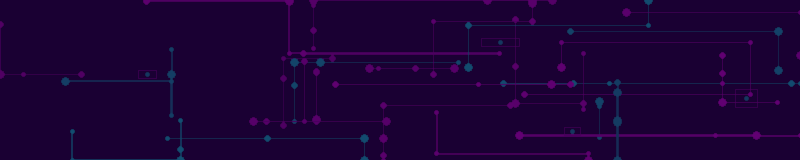
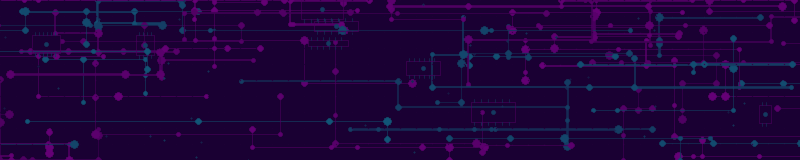
feat: denser circuit-trace toolbar pattern
More intricate PCB-style pattern: 55 traces (was 25), IC chip
outlines with pin marks, via dots, fine background grid texture.

Changed region(s): [[0.0, 0.0, 1.0, 1.0], [0.8438, 0.9375, 1.0, 1.0]]

diff --git a/scripts/generate_chrome_themes.py b/scripts/generate_chrome_themes.py
@@ -1037,43 +1037,66 @@ def generate_toolbar_image(v, width=800, height=160):
 
     trace_alpha = 50 if is_dark else 28
 
-    for i in range(25):
+    # Dense circuit routing — lots of traces
+    for i in range(55):
         color = accent if i % 3 != 0 else secondary
-        alpha = trace_alpha + random.randint(-8, 15)
-        line_color = color + (max(12, min(70, alpha)),)
+        alpha = trace_alpha + random.randint(-10, 18)
+        line_color = color + (max(12, min(75, alpha)),)
 
-        x = random.randint(0, width)
+        x = random.randint(-50, width + 50)
         y = random.randint(0, height)
 
-        segments = random.randint(2, 6)
+        segments = random.randint(3, 8)
         points = [(x, y)]
         for _ in range(segments):
-            if random.random() > 0.5:
-                dx = random.randint(30, 250) * random.choice([-1, 1])
-                points.append((max(0, min(width, points[-1][0] + dx)), points[-1][1]))
+            if random.random() > 0.4:
+                dx = random.randint(20, 180) * random.choice([-1, 1])
+                points.append((max(-20, min(width + 20, points[-1][0] + dx)), points[-1][1]))
             else:
-                dy = random.randint(10, 60) * random.choice([-1, 1])
+                dy = random.randint(8, 45) * random.choice([-1, 1])
                 points.append((points[-1][0], max(0, min(height, points[-1][1] + dy))))
 
-        lw = random.choice([1, 1, 2])
+        lw = random.choice([1, 1, 1, 2])
         for j in range(len(points) - 1):
             draw.line([points[j], points[j + 1]], fill=line_color, width=lw)
 
-        node_color = color + (max(18, min(80, alpha + 15)),)
+        # Nodes at every junction
+        node_color = color + (max(20, min(85, alpha + 18)),)
         for px, py in points:
-            r = random.choice([2, 3, 4])
+            r = random.choice([2, 2, 3, 3, 4])
             draw.ellipse([px - r, py - r, px + r, py + r], fill=node_color)
 
-    for _ in range(4):
-        cx = random.randint(50, width - 50)
-        cy = random.randint(10, height - 10)
-        cw = random.randint(15, 45)
-        ch = random.randint(8, 25)
-        chip_color = accent + (max(14, trace_alpha),)
+    # Via marks — small bright dots scattered along traces
+    for _ in range(40):
+        vx = random.randint(0, width)
+        vy = random.randint(0, height)
+        via_color = secondary + (random.randint(25, 55),)
+        draw.ellipse([vx - 1, vy - 1, vx + 1, vy + 1], fill=via_color)
+
+    # Chip packages — IC outlines with pin marks
+    for _ in range(8):
+        cx = random.randint(30, width - 30)
+        cy = random.randint(8, height - 8)
+        cw = random.randint(12, 50)
+        ch = random.randint(6, 22)
+        chip_color = accent + (max(14, trace_alpha + 2),)
         draw.rectangle([cx - cw // 2, cy - ch // 2, cx + cw // 2, cy + ch // 2],
                         outline=chip_color, width=1)
-        inner = secondary + (max(18, trace_alpha + 5),)
+        # Pin marks along edges
+        pin_color = secondary + (max(16, trace_alpha),)
+        pin_spacing = max(4, cw // 6)
+        for px in range(cx - cw // 2 + 3, cx + cw // 2 - 2, pin_spacing):
+            draw.line([(px, cy - ch // 2), (px, cy - ch // 2 - 3)], fill=pin_color, width=1)
+            draw.line([(px, cy + ch // 2), (px, cy + ch // 2 + 3)], fill=pin_color, width=1)
+        # Inner die mark
+        inner = secondary + (max(20, trace_alpha + 8),)
         draw.ellipse([cx - 2, cy - 2, cx + 2, cy + 2], fill=inner)
+
+    # Fine grid dots — subtle background texture
+    grid_color = accent + (8 if is_dark else 5,)
+    for gx in range(0, width, 16):
+        for gy in range(0, height, 16):
+            draw.point((gx, gy), fill=grid_color)
 
     trace_layer = trace_layer.filter(ImageFilter.GaussianBlur(radius=0.5))
 
